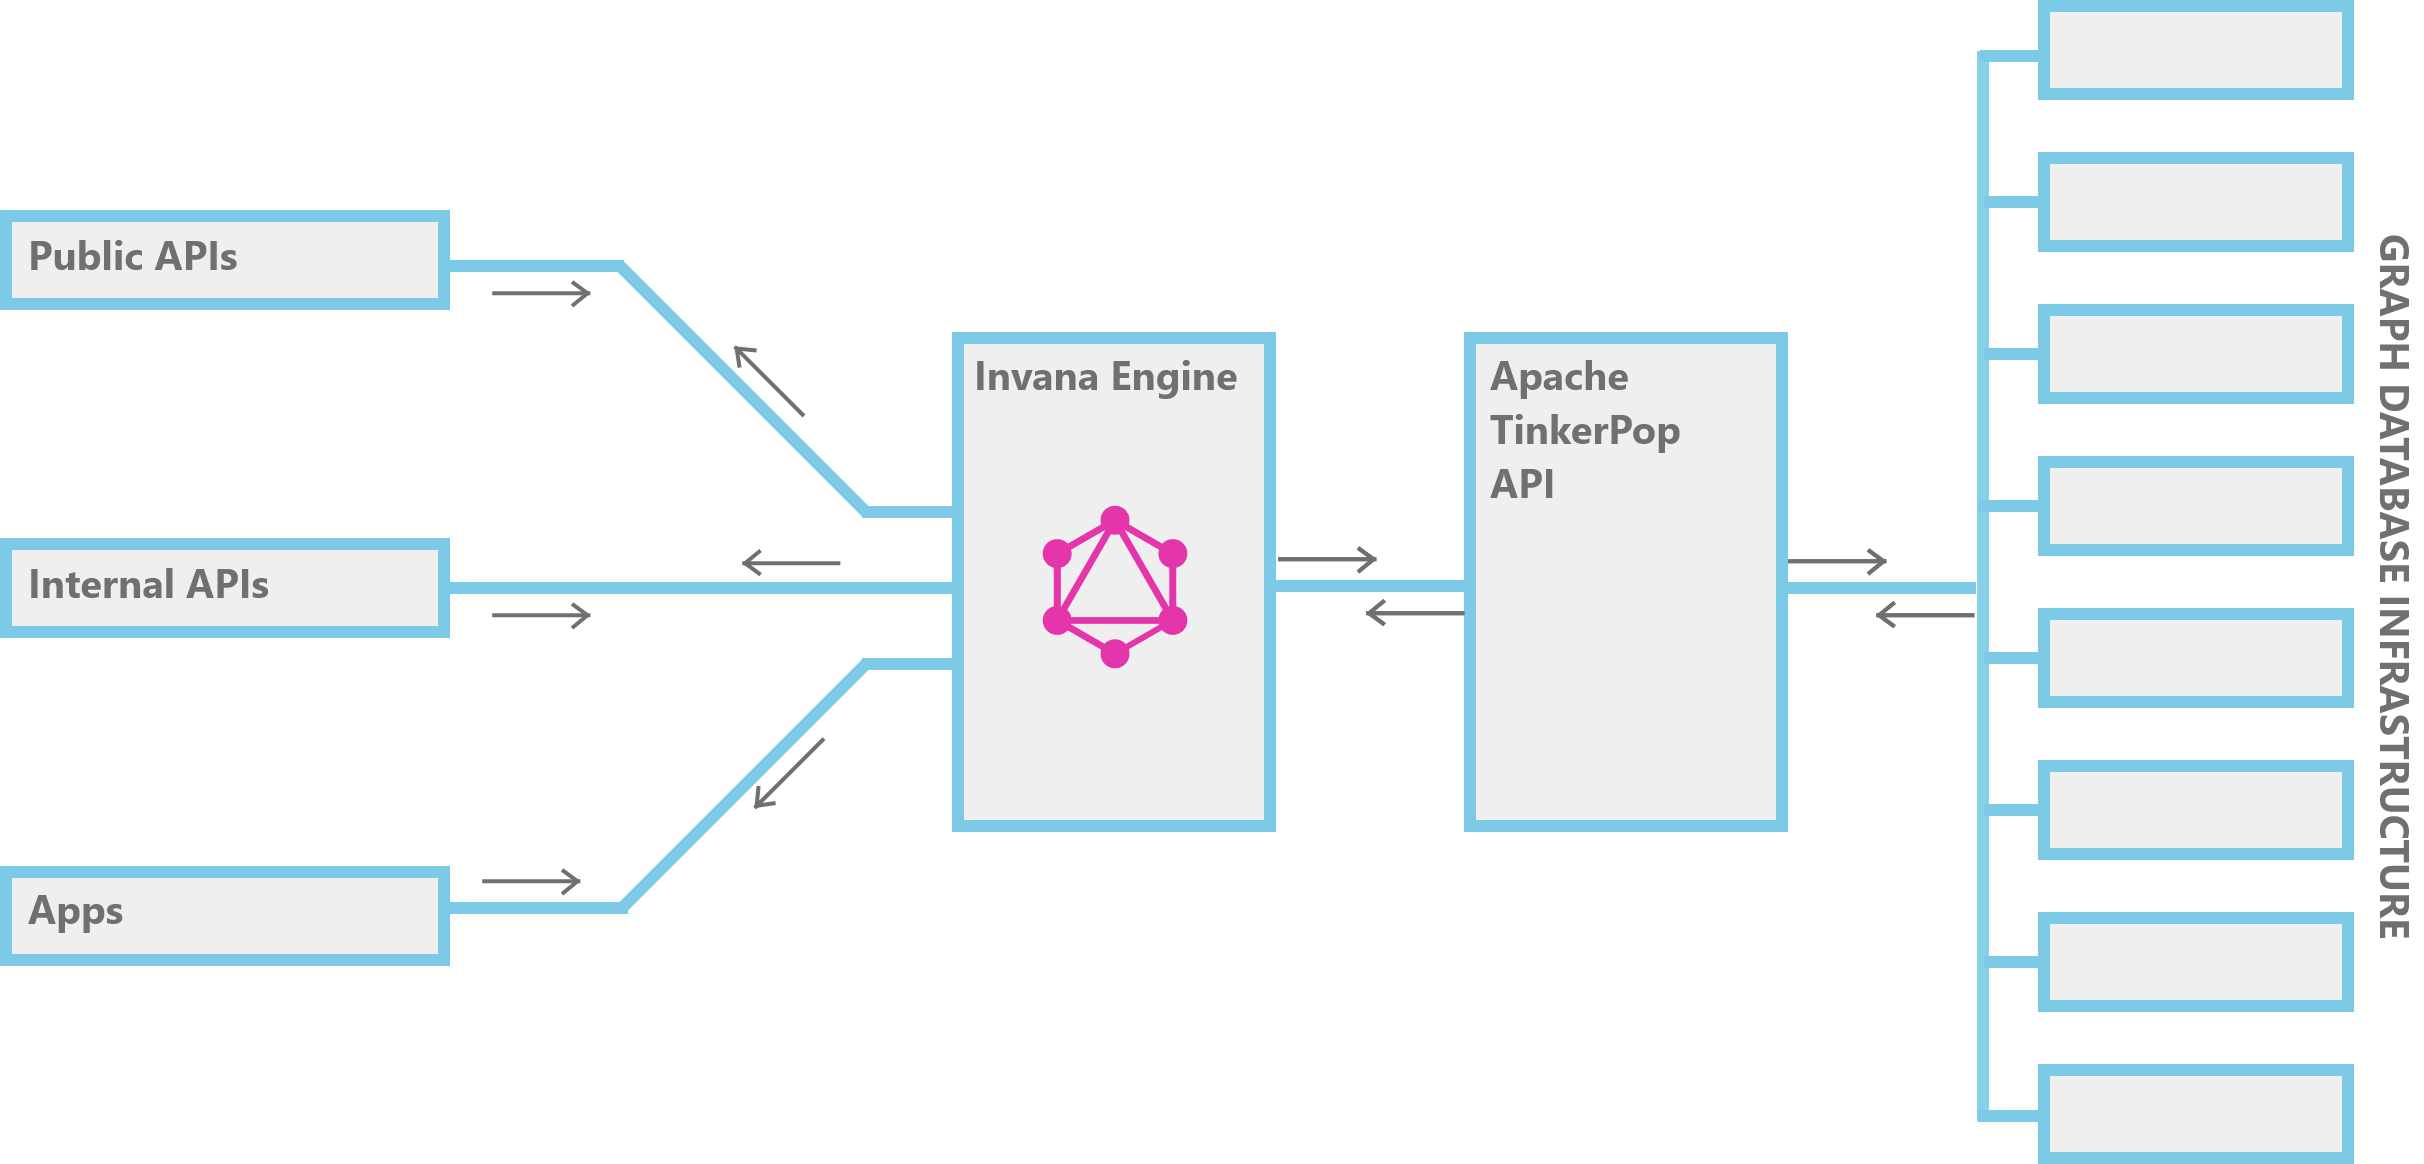
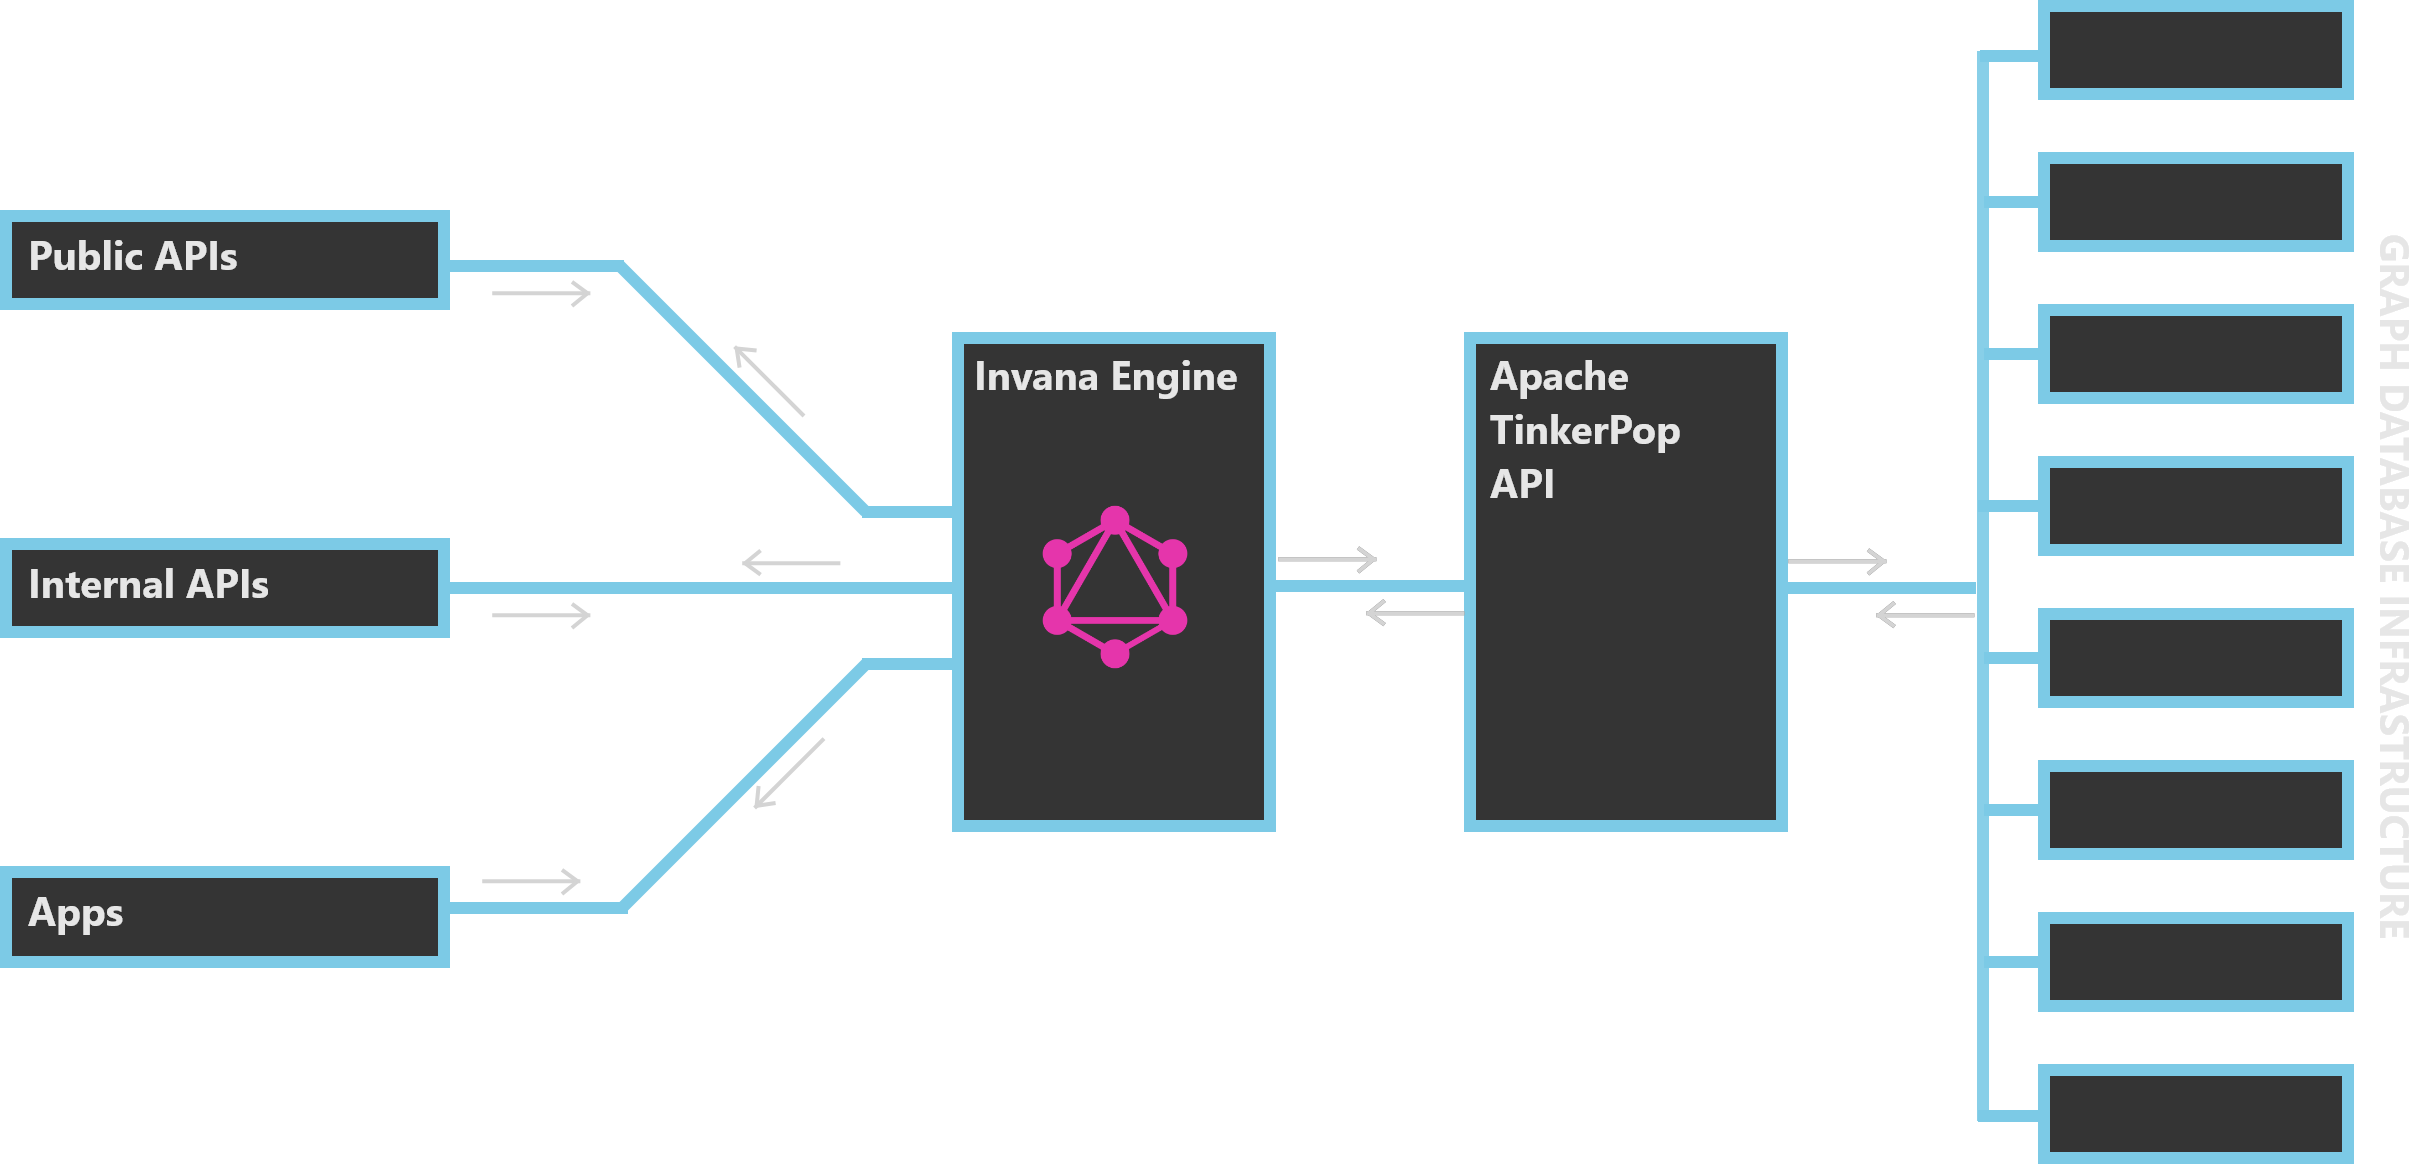
image theme updated

diff --git a/index.html b/index.html
@@ -188,7 +188,7 @@ description: Build and Explore Knowledge Graphs
 <!--<div class="clearfix"></div>-->
 
 <section class="home-section " style="
-    background: #ff9c9c;
+    background: #439c58;
 ">
     <div class="container ">
         <div class="row ">
@@ -198,7 +198,7 @@ description: Build and Explore Knowledge Graphs
             <div class="col-md-6">
                 <!--                <h5 class="mb-0">Invana Engine</h5>-->
                 <!--                <p> GraphQL API for Apache TinkerPop supported graph databases.</p>-->
-                <div class="card rounded-0" style="background: transparent; border: 1px solid #efefef">
+                <div class="card rounded-0" style="background: transparent; border: 1px solid #343434">
                     <div class="card-body">
                         <h3>Invana Engine</h3>
                         <hr>
@@ -226,7 +226,7 @@ description: Build and Explore Knowledge Graphs
             <div class="col-md-6">
                 <!--                <h5 class="mb-0">Graph Explorer</h5>-->
                 <!--                <p>Visualise data as force-directed graphs, tables, create knowledge graph views.</p>-->
-                <div class="card rounded-0" style="background: transparent; border: 1px solid #efefef">
+                <div class="card rounded-0" style="background: transparent; border: 1px solid #343434">
                     <div class="card-body">
                         <h3>Graph Explorer</h3>
                         <hr>

diff --git a/help.html b/help.html
@@ -60,6 +60,14 @@ description: Official documentation
                                 <a href="https://medium.com/invanalabs" target="_blank" rel="noopener ">
                                     <i class="fab fa-medium-m"></i> Stories on Medium
                                 </a>
+                            </li>  <li>
+                                <a href="https://tinkerpop.apache.org/docs/current/tutorials/getting-started/" target="_blank" rel="noopener ">
+                                    <i class="fas fa-cube"></i> Get Started with TinkerPop
+                                </a>
+                            </li> <li>
+                                <a href="https://tinkerpop.apache.org/docs/current/reference/" target="_blank" rel="noopener ">
+                                    <i class="fas fa-cube"></i> TinkerPop Documentation
+                                </a>
                             </li>
                         </ul>
 

diff --git a/public/styles/main.css b/public/styles/main.css
@@ -55,6 +55,7 @@ ul.list, ol.list {
 
 ul.list li, ol.list li {
     display: block;
+    margin-bottom: 5px;
 }
 
 main {
